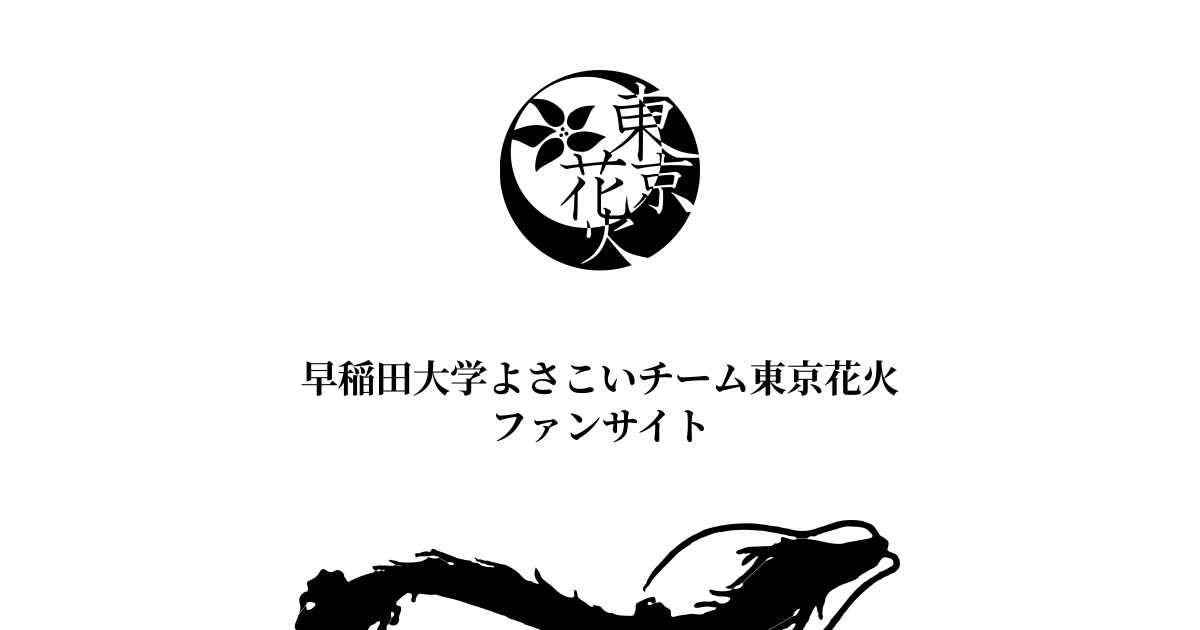
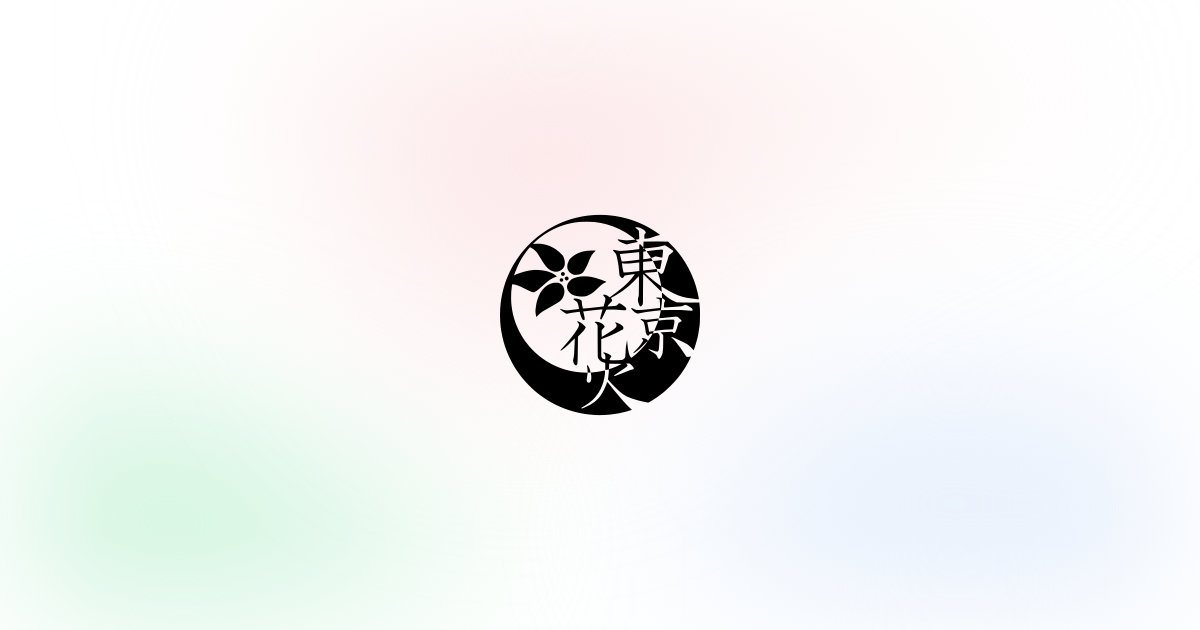
new hero and ogp images for top page

Changed region(s): [[0.0308, 0.6333, 0.7708, 1.0], [0.2467, 0.0905, 0.74, 0.6937]]

diff --git a/en.css b/en.css
@@ -70,44 +70,17 @@ html {
   color: inherit;
 }
 
-@keyframes hero-animation {
-  0% {
-    fill: transparent;
-    stroke-dashoffset: 2000;
-    stroke-width: 1.4px;
-  }
-  75% {
-    fill: transparent;
-    stroke-dashoffset: 0;
-    stroke-width: 1.4px;
-  }
-  100% {
-    fill: black;
-    stroke-dashoffset: 0;
-    stroke-width: 0;
-  }
-}
-#hero {
-  background-color: white;
-  border-bottom: 1px solid #d0d0d0;
-  height: 550px;
-  width: 100%;
-}
-#hero path {
-  animation: 4s ease-in 0s both "hero-animation";
-  stroke-dasharray: 2000;
-  stroke: black;
-}
-
 h1 {
-  background-color: transparent;
+  background-color: #d0d0d0;
+  background-image: url("/hero.avif");
+  background-position: 50% 30%;
+  background-size: cover;
+  border-bottom: 1px solid #d0d0d0;
   color: black;
   font-size: 2rem;
   font-variant: small-caps;
-  height: 128px;  /* 40px + 2rem + 1rem + 40px */
   line-height: 1;
-  margin-top: -128px;
-  padding: 40px 10px;
+  padding: 450px 30px 40px;
   text-align: center;
   width: 100%;
 }

diff --git a/index.css b/index.css
@@ -64,43 +64,16 @@ html {
   color: inherit;
 }
 
-@keyframes hero-animation {
-  0% {
-    fill: transparent;
-    stroke-dashoffset: 2000;
-    stroke-width: 1.4px;
-  }
-  75% {
-    fill: transparent;
-    stroke-dashoffset: 0;
-    stroke-width: 1.4px;
-  }
-  100% {
-    fill: black;
-    stroke-dashoffset: 0;
-    stroke-width: 0;
-  }
-}
-#hero {
-  background-color: white;
-  border-bottom: 1px solid #d0d0d0;
-  height: 550px;
-  width: 100%;
-}
-#hero path {
-  animation: 4s ease-in 0s both "hero-animation";
-  stroke-dasharray: 2000;
-  stroke: black;
-}
-
 h1 {
-  background-color: transparent;
+  background-color: #d0d0d0;
+  background-image: url("/hero.avif");
+  background-position: 50% 30%;
+  background-size: cover;
+  border-bottom: 1px solid #d0d0d0;
   color: black;
   font-size: 3rem;
-  height: 144px;  /* 40px + 3rem + 1rem + 40px */
   line-height: 1;
-  margin-top: -144px;
-  padding: 40px 30px;
+  padding: 450px 30px 40px;
   text-align: center;
   width: 100%;
 }

diff --git a/index.html b/index.html
@@ -51,8 +51,6 @@
     このウェブサイトは非公式のものです。東京花火さんに魅了されたファンが個人的に運営しています。<a href="http://www.tokyohanabi.com/" rel="noreferrer" target="_blank">公式サイト</a>もあわせてご覧ください。
   </div>
 
-  {% include_relative hero.svg %}
-
   <h1><small>早稲田大学よさこいチーム</small>東京花火</h1>
 
   <section id="mustsee">

diff --git a/en.html b/en.html
@@ -40,8 +40,6 @@
     This is an unofficial fansite created in the hope that Hanabi gains more popularity around the globe. Check <a href="http://www.tokyohanabi.com/" rel="noreferrer" target="_blank">official website</a>.
   </div>
 
-  {% include_relative hero.svg %}
-
   <h1><small>Yosakoi Dance Team from Waseda, 🇯🇵</small>Tokyo Hanabi</h1>
 
   <section id="mustsee">
